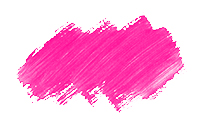
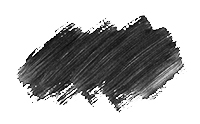
black and white

diff --git a/root/styles.css b/root/styles.css
@@ -9,18 +9,18 @@
 
 body {
   margin: 0;
-  background: #ff0090;
+  background-color: #f0f0f0;
   color: #000000;
   font-family: europa, sans-serif;
 }
 
 a, .link {
-  color: #ff0090;
+  color: inherit;
   text-decoration: underline;
 }
 
 .main {
-  filter: drop-shadow(0 -1rem .5rem rgba(217, 17, 107, 0.8));
+  filter: drop-shadow(0 -1rem .5rem rgba(17, 17, 17, .15));
 }
 
 .header {
@@ -52,7 +52,6 @@ a, .link {
   color: #000000;
   padding: 1rem;
   flex: 1;
-  border-top: 1px solid rgba(0, 0, 0, .2);
   overflow: hidden;
 }
 
@@ -64,17 +63,6 @@ a, .link {
   border-radius: 12px;
   border: 5px solid;
   position: relative;
-}
-
-.topic-card h3:after {
-  content: url('./images/paint-strokes.jpg');
-  display: block;
-  position: absolute;
-  transform: translate(-50%, -50%) scale(0.5);
-  transform-origin: center;
-  mix-blend-mode: multiply;
-  top: 100%;
-  left: 100%;
 }
 
 .topic-card:not(:last-child) {

diff --git a/content/savager.md b/content/savager.md
@@ -1,6 +1,6 @@
 ---
 image: ./images/savager.jpg
-tags: UXD, DEV
+tags: DEV
 headline: Savager
 summary: I started my career at Compass as a frontend engineer but opporunities arose that helped shape the UX Engineer role. Now the sole enginee reporting underneath the design organization, I was originally responsible for supporting product designers in creating prototypes of their mockups.
 year: 2020
